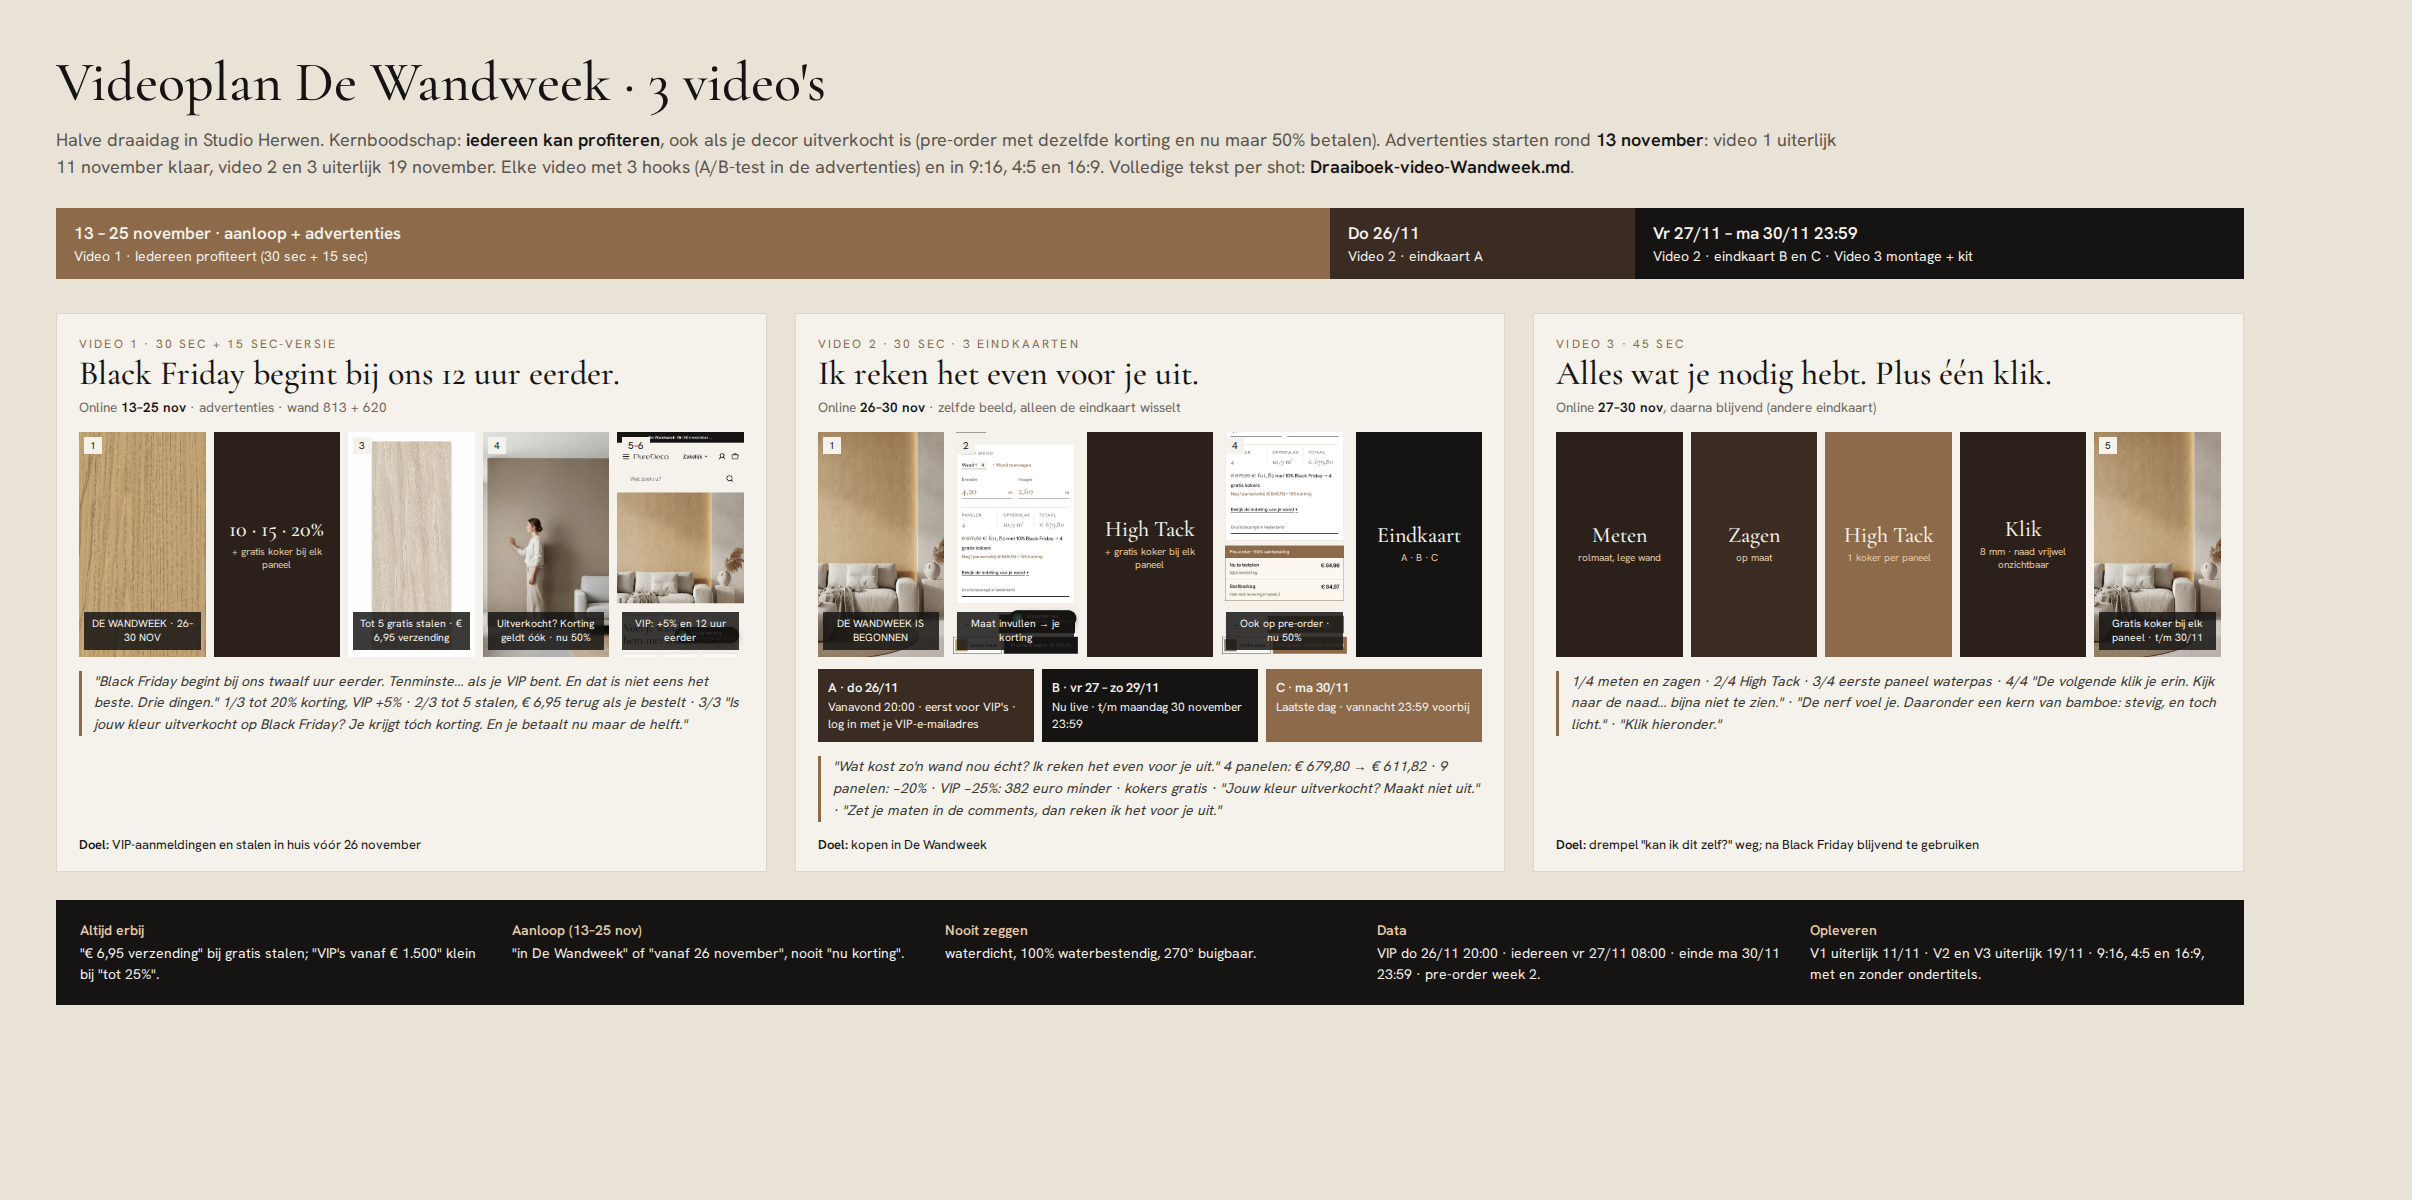
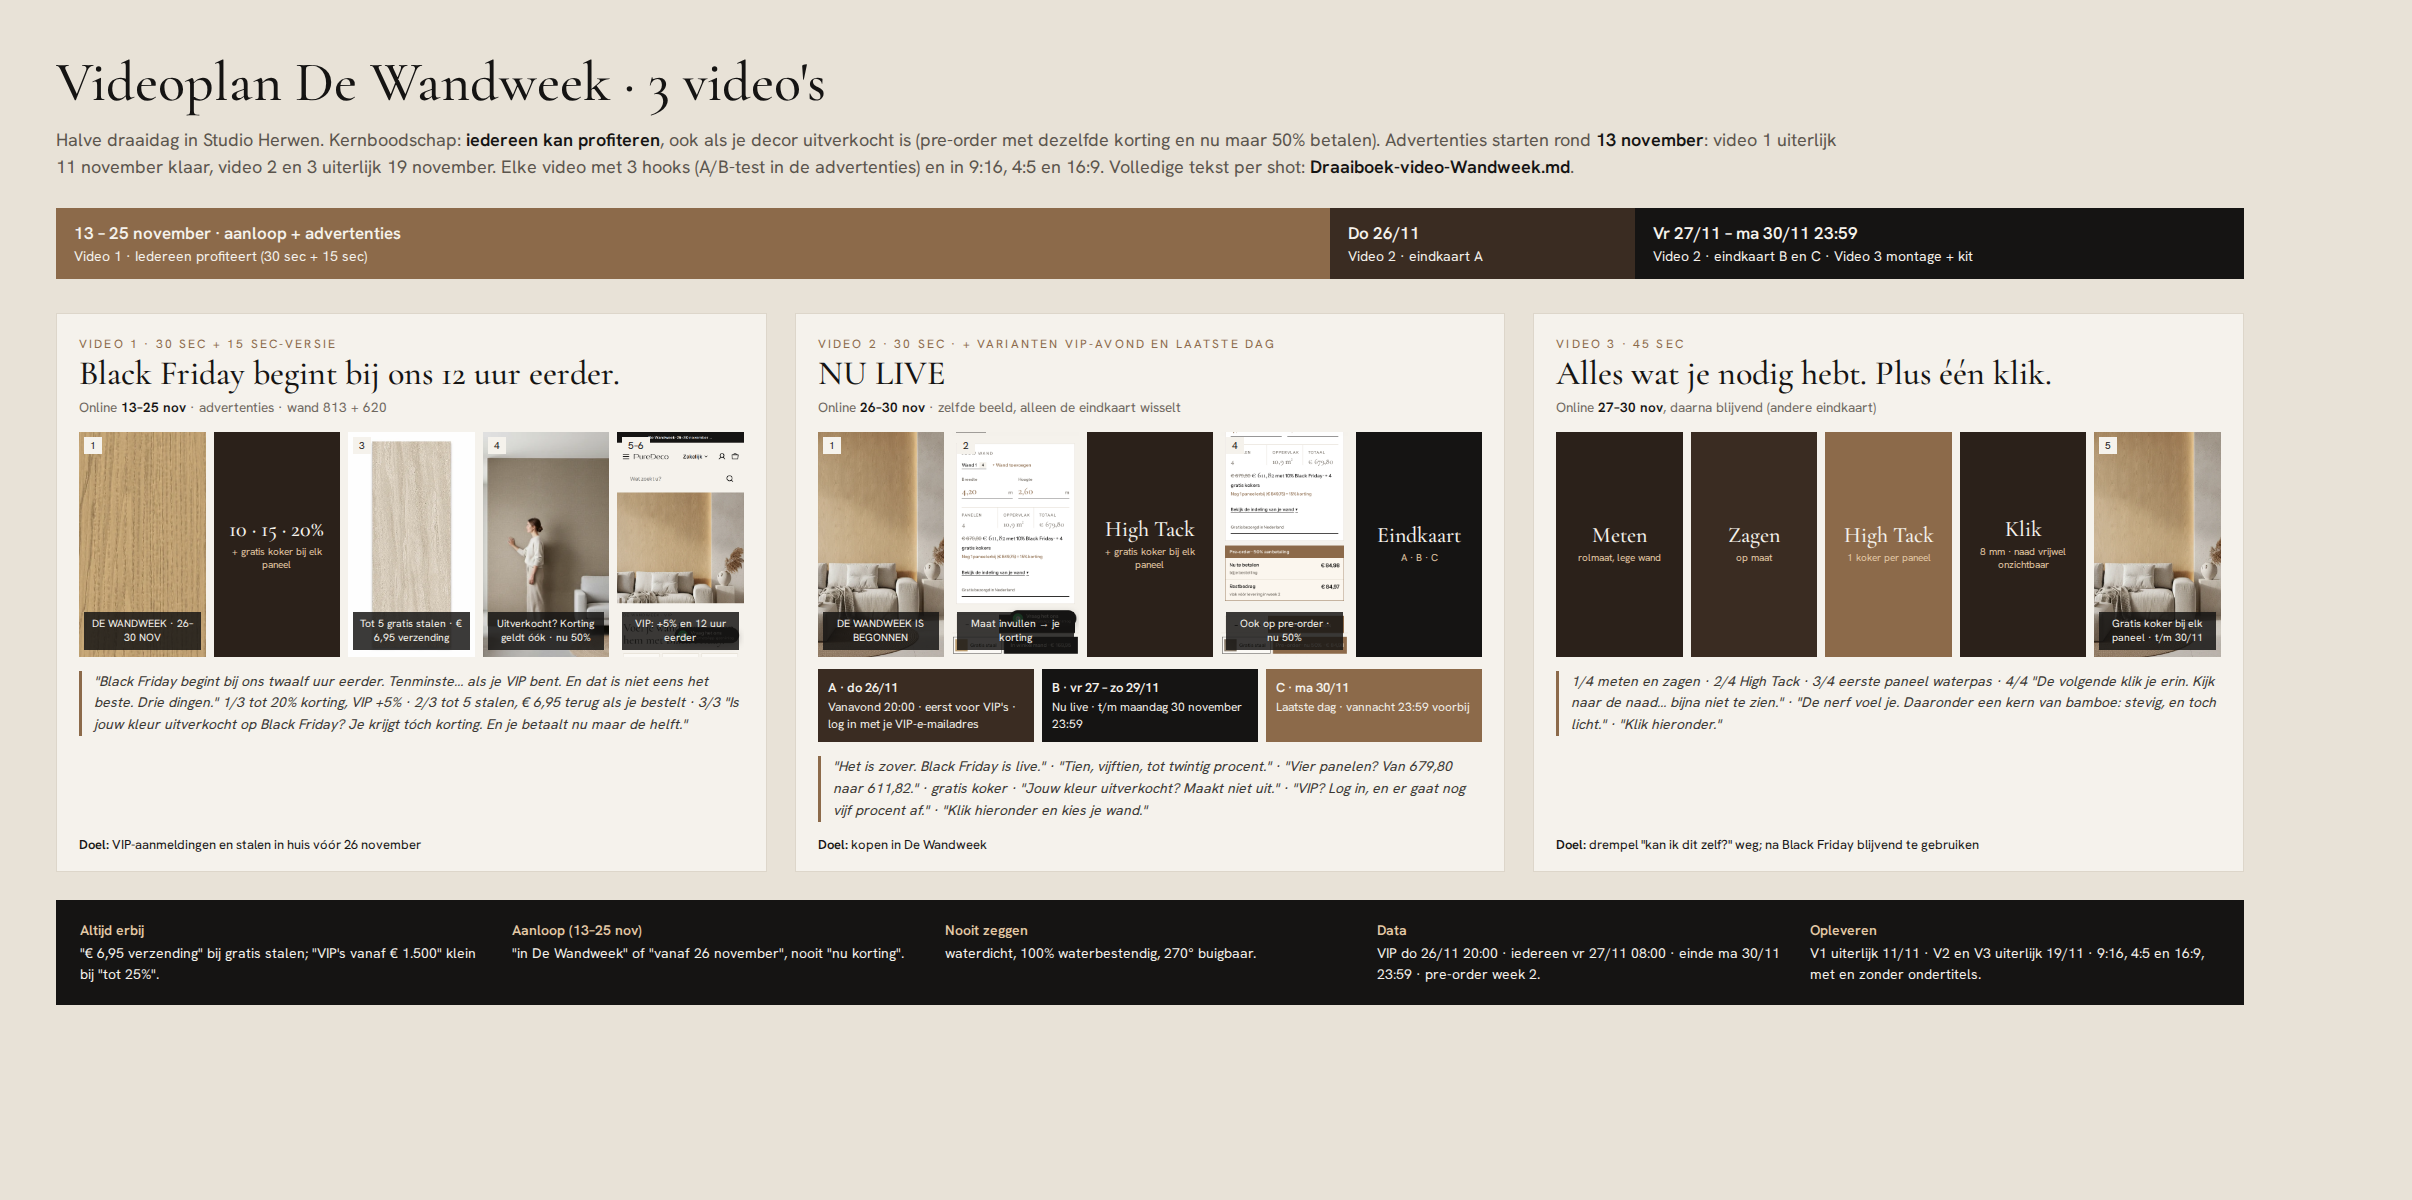
Video 2 wordt 'NU LIVE' (Black Friday), met varianten VIP-avond en laatste dag
Claude-Session: https://claude.ai/code/session_01Tr9HDAqx5rbsuHBhnEqEEG

Changed region(s): [[0.342, 0.6167, 0.6219, 0.6783], [0.342, 0.2775, 0.5286, 0.3392]]

diff --git a/docs/ontwerp-puredeco-finish/black-friday/video/video-artboard.html b/docs/ontwerp-puredeco-finish/black-friday/video/video-artboard.html
@@ -52,7 +52,7 @@ h1{font-family:'Cormorant Garamond',serif;font-weight:500;font-size:56px}
 <p class="say">"Black Friday begint bij ons twaalf uur eerder. Tenminste… als je VIP bent. En dat is niet eens het beste. Drie dingen." 1/3 tot 20% korting, VIP +5% · 2/3 tot 5 stalen, € 6,95 terug als je bestelt · 3/3 "Is jouw kleur uitverkocht op Black Friday? Je krijgt tóch korting. En je betaalt nu maar de helft."</p>
 <p class="goal"><b>Doel:</b> VIP-aanmeldingen en stalen in huis vóór 26 november</p></div>
 
-<div class="card"><p class="num">Video 2 · 30 sec · 3 eindkaarten</p><p class="ttl">Ik reken het even voor je uit.</p><p class="meta">Online <b>26–30 nov</b> · zelfde beeld, alleen de eindkaart wisselt</p>
+<div class="card"><p class="num">Video 2 · 30 sec · + varianten VIP-avond en laatste dag</p><p class="ttl">NU LIVE</p><p class="meta">Online <b>26–30 nov</b> · zelfde beeld, alleen de eindkaart wisselt</p>
 <div class="frames">
 <div class="fr" style="background-image:url('https://cdn.shopify.com/s/files/1/0940/4075/2394/files/generated_2Fshopify_3Af9yvx9-zm.myshopify.com_2F1793565871079_0.png?v=1793565889&width=500')"><span class="n">1</span><span class="ov">DE WANDWEEK IS BEGONNEN</span></div>
 <div class="fr" style="background-image:url('calculator-fase2.png');background-position:center 40%"><span class="n">2</span><span class="ov">Maat invullen → je korting</span></div>
@@ -65,7 +65,7 @@ h1{font-family:'Cormorant Garamond',serif;font-weight:500;font-size:56px}
 <div style="background:#151413"><b>B · vr 27 – zo 29/11</b>Nu live · t/m maandag 30 november 23:59</div>
 <div style="background:#8C6A4A"><b>C · ma 30/11</b>Laatste dag · vannacht 23:59 voorbij</div>
 </div>
-<p class="say">"Wat kost zo'n wand nou écht? Ik reken het even voor je uit." 4 panelen: € 679,80 → € 611,82 · 9 panelen: −20% · VIP −25%: 382 euro minder · kokers gratis · "Jouw kleur uitverkocht? Maakt niet uit." · "Zet je maten in de comments, dan reken ik het voor je uit."</p>
+<p class="say">"Het is zover. Black Friday is live." · "Tien, vijftien, tot twintig procent." · "Vier panelen? Van 679,80 naar 611,82." · gratis koker · "Jouw kleur uitverkocht? Maakt niet uit." · "VIP? Log in, en er gaat nog vijf procent af." · "Klik hieronder en kies je wand."</p>
 <p class="goal"><b>Doel:</b> kopen in De Wandweek</p></div>
 
 <div class="card"><p class="num">Video 3 · 45 sec</p><p class="ttl">Alles wat je nodig hebt. Plus één klik.</p><p class="meta">Online <b>27–30 nov</b>, daarna blijvend (andere eindkaart)</p>

diff --git a/docs/ontwerp-puredeco-finish/black-friday/video/Draaiboek-video-Wandweek.md b/docs/ontwerp-puredeco-finish/black-friday/video/Draaiboek-video-Wandweek.md
@@ -29,7 +29,7 @@ Voor de videograaf, deze week. **Drie video's**, één halve draaidag in Studio 
 | Video | Lengte | Online | Doel |
 |---|---|---|---|
 | **1 · Iedereen profiteert** (aanloop) | 30 sec + 15 sec-versie | 13 t/m 25 november (advertenties) | VIP-aanmeldingen en stalen |
-| **2 · De Wandweek is begonnen** (live) | 30 sec | 26 t/m 30 november, met 3 eindkaarten | Kopen |
+| **2 · NU LIVE** | 30 sec + 15 sec | 27 t/m 30 november (+ varianten VIP-avond en laatste dag) | Kopen |
 | **3 · Montage, klik en kwaliteit** | 45 sec | 27 t/m 30 november, daarna blijvend (zonder kit-eindkaart) | Drempel "kan ik dit zelf?" weg |
 
 ## Formaten
@@ -114,43 +114,48 @@ Zolang het nieuwe thema nog niet live staat, gebruik je deze previewlinks:
 
 ---
 
-## Video 2 · "Ik reken het even voor je uit" (live, 30 sec · 3 eindkaarten)
+## Video 2 · "NU LIVE" (Black Friday, 30 sec)
 
-**Online:** 26 t/m 30 november. Eindkaart A (do 26/11), B (vr 27–zo 29/11), C (ma 30/11).
-**Vorm:** de bedragen worden steeds beter. Elke 3 seconden een nieuw getal in beeld, zodat kijkers willen zien waar het eindigt.
-**Rekenvoorbeeld:** 813 Natural Oak, € 169,95 per paneel (alle bedragen nagerekend).
+**Online:** vrijdag 27 november 08:00 t/m maandag 30 november 23:59. Plus twee varianten met één andere zin (zie onder).
+**Vorm:** hoog tempo, alsof je een deur opengooit. Bovenin de hele video een rood/zwart label **NU LIVE**. Elke 2–3 seconden een nieuw voordeel, als een aftelling.
 
 **Drie hooks (alle drie opnemen):**
-- **Hook A:** Spreker houdt de telefoon in de camera. *"Wat kost zo'n wand nou écht? Ik reken het even voor je uit."*
-- **Hook B:** Spreker voor wand 813. *"Iedereen vraagt wat zo'n wand kost. Hier is het antwoord."*
-- **Hook C:** Spreker met de telefoon. *"Zo bespaar je 382 euro op één wand."*
+- **Hook A:** Spreker trekt een doek weg van wand 813. *"Het is zover. Black Friday is live."*
+- **Hook B:** Telefoon in de camera, meldingsgeluid. *"Dit is je seintje: De Wandweek is live."*
+- **Hook C:** Spreker, recht in de camera. *"Je hebt tot maandag middernacht. Let's go."*
 
 | Tijd | Beeld | Gesproken | Tekst in beeld |
 |---|---|---|---|
-| 0–2 s | Hook A, B of C | (zie hierboven) | WAT KOST ZO'N WAND ÉCHT? |
-| 2–6 s | Telefoon: duim typt 4,20 × 2,60 in de calculator | "Wand van 4,20 bij 2,60. Vier panelen. Normaal 679 euro 80." | 4 panelen · € 679,80 |
-| 6–9 s | Close-up: bedrag springt naar € 611,82 (swipe-geluid) | "Deze week: 611 euro 82." | € 611,82 · −10% |
-| 9–13 s | Cut naar een grote wand | "Grotere wand? Negen panelen. Dan is het twintig procent." | 9 panelen · −20% · € 1.223,64 |
-| 13–16 s | Spreker trekt de wenkbrauwen op | "En ben je VIP? Vijfentwintig procent. Dat is 382 euro minder." | VIP · −25% · € 1.147,16 |
-| 16–19 s | Kokers één voor één op tafel gezet | "De kokers om ze op te plakken? Gratis. Eén bij elk paneel." | + gratis koker bij elk paneel |
-| 19–25 s | Telefoon: productpagina 620 met "Nu te betalen" | "Jouw kleur uitverkocht? Maakt niet uit. Je krijgt tóch korting, en je betaalt nu maar de helft." | UITVERKOCHT? TOCH KORTING · nu maar 50% |
-| 25–27 s | Spreker, recht in de camera | "Dus nee. Je hoeft niet tot volgend jaar te wachten." | |
-| 27–30 s | Eindkaart A, B of C; spreker wijst naar beneden | Lees de eindkaart voor, plus: "Klik hieronder. En zet je maten in de comments, dan reken ik het voor je uit." | 👇 KLIK HIERONDER · puredeco.nl · A: Vanavond 20:00 · eerst VIP's / B: Nu live · t/m ma 23:59 / C: Laatste dag · vannacht 23:59 |
+| 0–2 s | Hook A, B of C | (zie hierboven) | NU LIVE · DE WANDWEEK |
+| 2–6 s | Drie blokken poppen één voor één in beeld (montage) | "Hoe groter je wand, hoe meer korting. Tien, vijftien, tot twintig procent." | 10% · 15% · 20% |
+| 6–11 s | Telefoon: duim vult 4,20 × 2,60 in, bedrag springt om (swipe-geluid) | "Vier panelen? Van 679 euro 80 naar 611 euro 82." | ~~€ 679,80~~ € 611,82 |
+| 11–14 s | Koker wordt opengeklikt (geluid hard) | "Bij elk paneel een gratis montagekoker. Zit vanzelf in je pakket." | + gratis koker bij elk paneel |
+| 14–20 s | Spreker voor wand 620, buigt naar de camera | "Jouw kleur uitverkocht? Maakt niet uit. Je krijgt tóch korting, en je betaalt nu maar de helft." | UITVERKOCHT? TOCH KORTING · nu maar 50% |
+| 20–24 s | Spreker knipoogt, telefoon met "Inloggen" in de kassa | "Ben je VIP? Log in, en er gaat nog vijf procent af." | VIP: +5% · log in met je VIP-e-mailadres |
+| 24–27 s | Telefoon: aftelklok uit de site in beeld | "Tot en met maandag middernacht. Daarna is het echt voorbij." | t/m ma 30 nov 23:59 |
+| 27–30 s | Spreker wijst met beide handen naar beneden | "Klik hieronder en kies je wand. Welke kleur wordt het?" | 👇 KLIK HIERONDER · puredeco.nl |
 
-**15 sec-versie:** hook → 2–9 s → 19–25 s → eindkaart.
+**15 sec-versie:** hook → 2–6 s → 14–20 s → 27–30 s.
+
+**Varianten (zelfde beeld, één zin anders inspreken):**
+- **VIP-avond (do 26/11, 20:00 tot vr 08:00):** hook wordt *"Het is zover. Voor VIP's is Black Friday nu live."*; 24–27 s wordt *"Log in met je VIP-e-mailadres. Iedereen anders: morgen om acht uur."* Label: **NU LIVE VOOR VIP'S**.
+- **Laatste dag (ma 30/11):** 24–27 s wordt *"Laatste dag. Vannacht om twaalf uur is het voorbij."* Label: **LAATSTE DAG**.
+
+**Link in beeld:** vanaf seconde 0 een vast labeltje **puredeco.nl** bovenin, naast **NU LIVE**. Advertentieknop **"Nu kopen"** naar `puredeco.nl/collections/wandpanelen?utm_source=meta&utm_campaign=wandweek`.
 
 **Caption:**
-> Wat kost zo'n wand nou écht? 🧮
-> 4 panelen: € 679,80 → € 611,82
-> 9 panelen: −20%, als VIP zelfs −25% (€ 382 minder)
+> 🔴 NU LIVE: De Wandweek
+> Hoe groter je wand, hoe meer korting: 10, 15, tot 20%
+> 4 panelen: ~~€ 679,80~~ € 611,82
 > \+ bij elk paneel een gratis montagekoker
-> Kleur uitverkocht? Maakt niet uit: je krijgt tóch korting en betaalt nu maar de helft.
-> Alleen in De Wandweek, t/m maandag 23:59. Zet je maten in de comments, dan rekenen we het voor je uit 👇
+> Kleur uitverkocht? Maakt niet uit: je krijgt tóch korting en betaalt nu maar de helft
+> VIP? Log in voor 5% extra
+> Tot en met maandag 23:59 👉 klik hieronder. Welke kleur wordt het? 👇
 > #wandpanelen #blackfriday #interieur #woonkamer #houtenwand #japandi #slaapkamer #diy
 
-**Reactie-tip:** reken elke reactie met maten echt uit ("4,80 × 2,60 = 4 panelen, € 611,82 deze week"). Dat levert veel reacties op, en dus bereik. Maak van de beste reactie een korte antwoordvideo.
+**Reactie-tip:** vraagt iemand naar een maat, reken het uit ("4,80 × 2,60 = 4 panelen, € 611,82 deze week"). Maak van de beste reactie een korte antwoordvideo; dat geeft extra bereik midden in de actie.
 
-**Check vóór publicatie:** "normaal € 679,80" mag alleen als 813 de afgelopen 30 dagen niet goedkoper was dan € 169,95 per paneel.
+**Check vóór publicatie:** "van € 679,80" mag alleen als 813 de afgelopen 30 dagen niet goedkoper was dan € 169,95 per paneel.
 
 ---
 
@@ -216,6 +221,6 @@ Zolang het nieuwe thema nog niet live staat, gebruik je deze previewlinks:
 ## Opleveren
 
 - **Uiterlijk 11 november:** video 1 (30 sec en 15 sec).
-- **Uiterlijk 19 november:** video 2 (met eindkaarten A, B en C) en video 3.
+- **Uiterlijk 19 november:** video 2 (met de varianten VIP-avond en laatste dag) en video 3.
 - Elke video in 9:16, 4:5 en 16:9, met en zonder ondertiteling.
 - Bestandsnamen: `WW26_V1_iedereen_30s_9x16.mp4`, `WW26_V2_live_B_4x5.mp4` enz.
